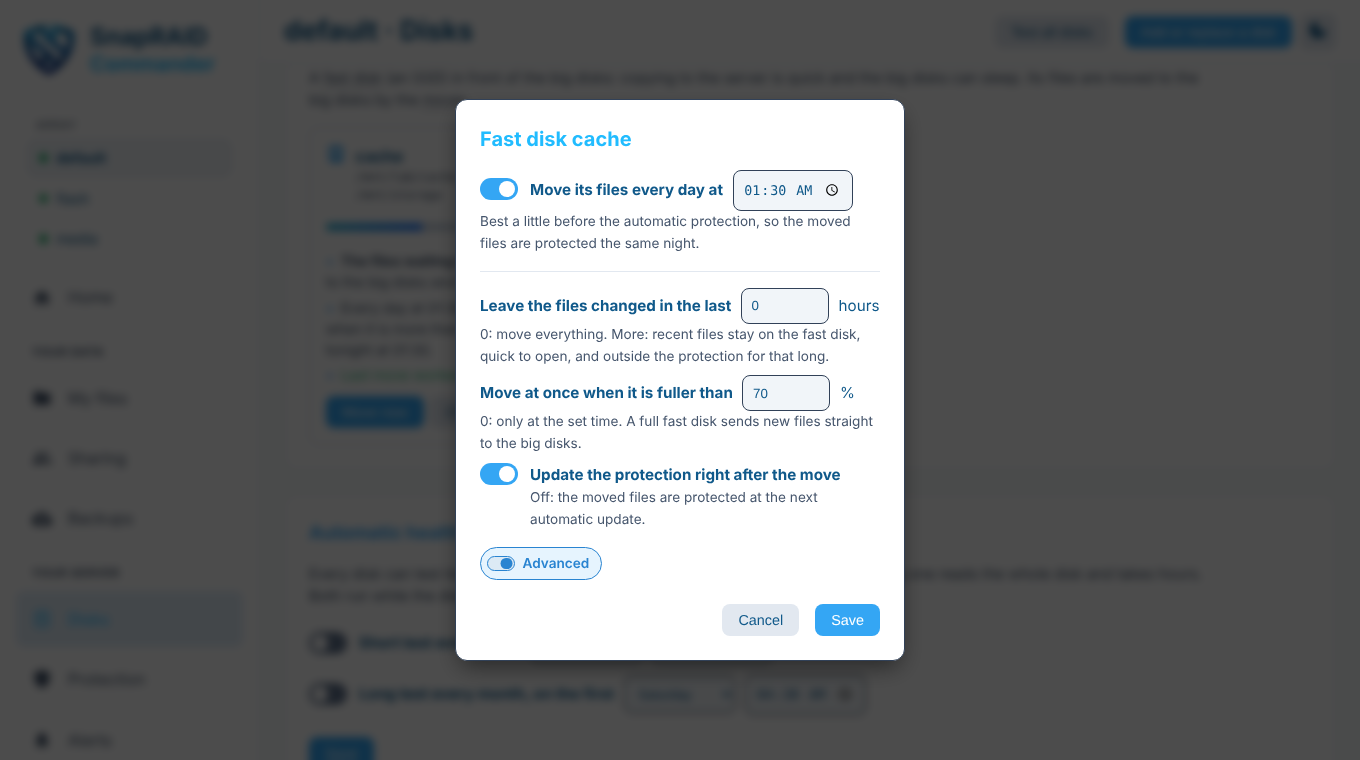
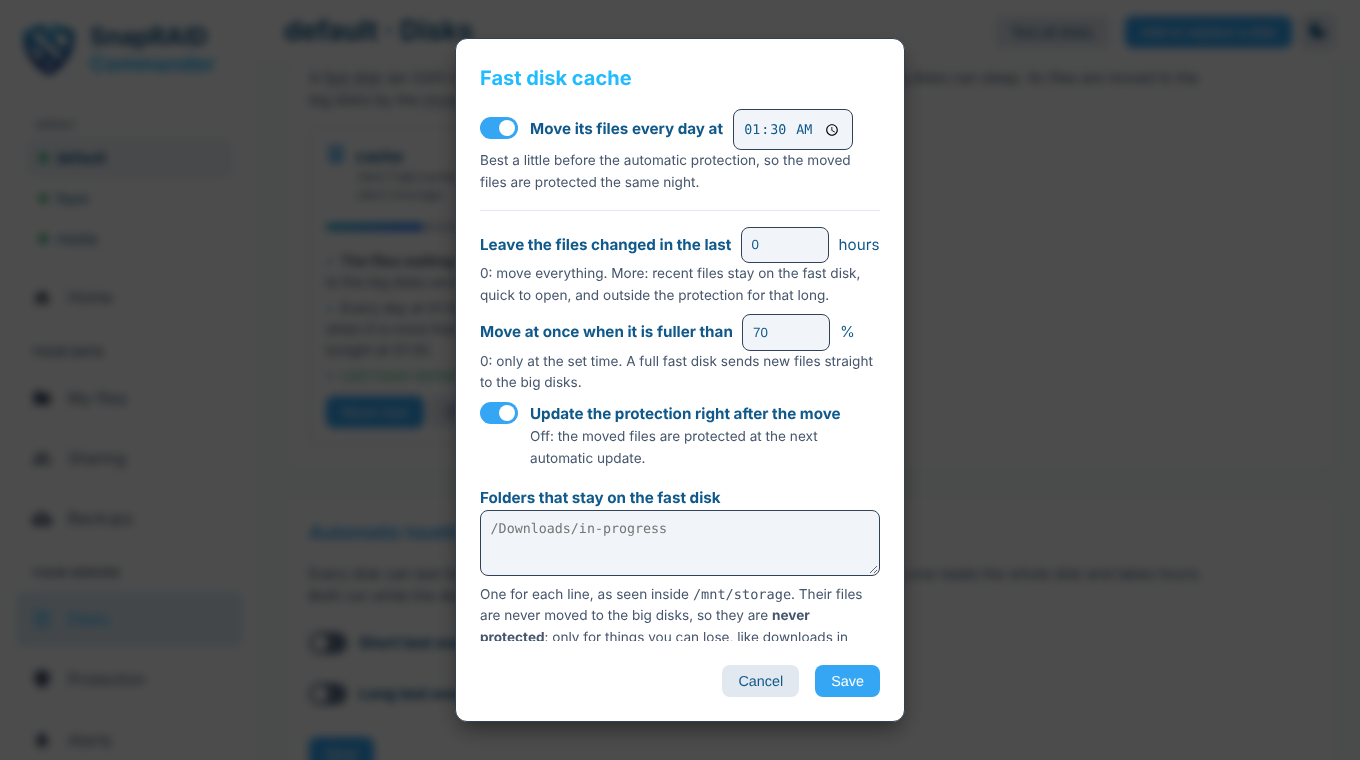
Test the folders kept on chosen disks, the folders left on the fast disk and the move of one file of a split parity, with their pictures

Changed region(s): [[0.3088, 0.0303, 0.6794, 0.9684]]

diff --git a/README.md b/README.md
@@ -54,8 +54,10 @@ ones, and is remembered page by page. Taken from the showcase lab after
 | **Disks, with Advanced on**: every disk also offers what applies to it among power settings, what uses it, copy, empty, and the move of the parity<br>[![Disks, with Advanced on](docs/screenshots/tiers-disks-advanced.png)](docs/screenshots/tiers-disks-advanced.png) | **Fast disk**: an SSD in front of the pool: how much waits on it, that it is not protected until moved, and when it is moved<br>[![Fast disk](docs/screenshots/tiers-fast-disk.png)](docs/screenshots/tiers-fast-disk.png) |
 | **Fast disk, its settings**: the time of the move; with Advanced also the age of the files to leave, the fill level and the sync after<br>[![Fast disk, its settings](docs/screenshots/tiers-fast-disk-edit.png)](docs/screenshots/tiers-fast-disk-edit.png) | **The parity on a larger disk**: copied, checked byte by byte, then the array is switched to it; the old parity disk becomes a data disk<br>[![The parity on a larger disk](docs/screenshots/tiers-parity-move.png)](docs/screenshots/tiers-parity-move.png) |
 | **Replace by copying**: when the old disk still reads, its files go straight to the new one<br>[![Replace by copying](docs/screenshots/tiers-replace-copy.png)](docs/screenshots/tiers-replace-copy.png) | **Protection, with Advanced on**: going on after a big tidy up, reading new files twice, stopping on files become empty<br>[![Protection, with Advanced on](docs/screenshots/tiers-protection-advanced.png)](docs/screenshots/tiers-protection-advanced.png) |
-| **My files, with Advanced on**: the size of a folder and its move to one disk<br>[![My files, with Advanced on](docs/screenshots/tiers-files-advanced.png)](docs/screenshots/tiers-files-advanced.png) | **A folder to one disk**: where it is now, where it goes, what happens and what does not change<br>[![A folder to one disk](docs/screenshots/tiers-folder-move.png)](docs/screenshots/tiers-folder-move.png) |
+| **My files, with Advanced on**: the size of a folder and the disks it lives on<br>[![My files, with Advanced on](docs/screenshots/tiers-files-advanced.png)](docs/screenshots/tiers-files-advanced.png) | **The disks of a folder**: where it is now, where it should live, and if it is kept there for the files to come<br>[![The disks of a folder](docs/screenshots/tiers-folder-move.png)](docs/screenshots/tiers-folder-move.png) |
 | **Size of a folder**: how much of it is on every disk<br>[![Size of a folder](docs/screenshots/tiers-folder-size.png)](docs/screenshots/tiers-folder-size.png) | **The tour of the first visit**: five short steps, also in Help<br>[![The tour of the first visit](docs/screenshots/tiers-tour.png)](docs/screenshots/tiers-tour.png) |
+| **Empty a disk**: its files go to the other disks, then one click takes it out of the array<br>[![Empty a disk](docs/screenshots/tiers-empty-remove.png)](docs/screenshots/tiers-empty-remove.png) | **Adding a disk larger than the parity**: the Add dialog offers to make it the parity<br>[![Adding a disk larger than the parity](docs/screenshots/tiers-add-parity-tip.png)](docs/screenshots/tiers-add-parity-tip.png) |
+| **One file of a split parity to a larger disk**<br>[![One file of a split parity](docs/screenshots/tiers-parity-split.png)](docs/screenshots/tiers-parity-split.png) | |
 
 ### The Storage and Arrays pages
 
@@ -322,9 +324,12 @@ showing the same files with the same data before and after, the files with a twi
 disk left and named, a path climbing out or going through a link refused, and the sync that asks
 when a disk was emptied; the blank disk `s2` as fast disk in front of the pool: new files landing
 on it, the mover bringing them to the array and running the maintenance, a file just written left
-for the next time; the parity copied to the blank disk `s1`, the same as the original, with the
-old one untouched, a full scrub against the copy, and a deleted file rebuilt from it; a split
-parity, a disk too small and a pool refused; the size of a folder disk by disk; the reading test
+for the next time, a folder set to stay on the fast disk left there; a folder kept on chosen
+disks: brought to one disk, a new file taken there by the mover, a file landed elsewhere brought
+back, a second folder on two disks; the parity copied to the blank disk `s1`, the same as the
+original, with the old one untouched, a full scrub against the copy, and a deleted file rebuilt
+from it; one file of the split parity of the `media` array moved to another disk, with the sync
+and a full scrub after; a disk too small and a pool refused; the size of a folder disk by disk; the reading test
 of a whole disk; the copy of a single file; and a sync stopped by the limit of the deleted files
 run again by the daemon when many more files were added, and not when few were.
 
